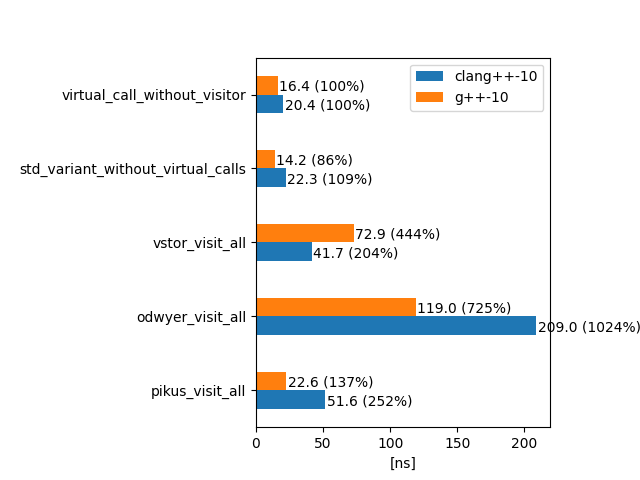
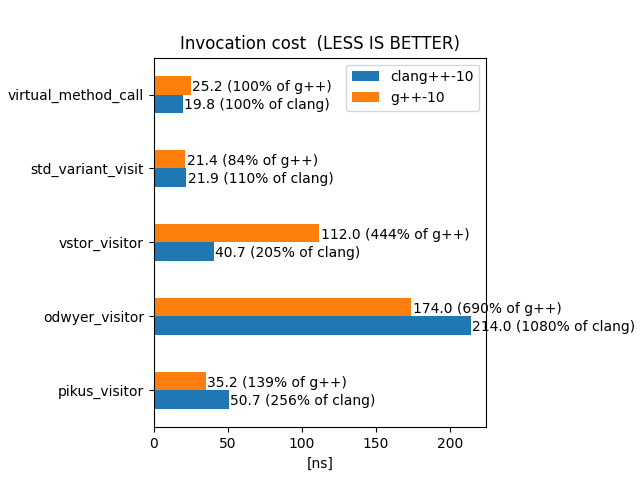
tidy naming

diff --git a/benchmark/generate_benchmark_graphs.py b/benchmark/generate_benchmark_graphs.py
@@ -17,7 +17,7 @@ def main() -> None:
         dump(test_results_clang, file)
     with open('/tmp/res_gcc', 'wb') as file:
         dump(test_results_gcc, file)
-
+    #
     # with open('/tmp/res_clang', 'rb') as file:
     #     test_results_clang = load(file)
     # with open('/tmp/res_gcc', 'rb') as file:
@@ -35,7 +35,7 @@ def benchmark_results(cc_compiler: str, cxx_compiler: str, suite_name: str) -> L
         f'-DCMAKE_CXX_COMPILER={cxx_compiler} -DCMAKE_EXPORT_COMPILE_COMMANDS=1 ../ && '
         'make vstor-benchmark'
         ')')
-    test_results_raw = execute('build/benchmark/vstor-benchmark --benchmark_repetitions=20')
+    test_results_raw = execute('build/benchmark/vstor-benchmark --benchmark_repetitions=200')
     test_results = [
         *filter(lambda line: '_median' in line and suite_name in line,
                 test_results_raw)]
@@ -50,8 +50,8 @@ def execute(command: str) -> List[str]:
 
 
 def show_graph(test_results_clang: List, test_results_gcc: List) -> None:
-    test_results_clang = [*reversed(test_results_clang)]
-    test_results_gcc = [*reversed(test_results_gcc)]
+    # test_results_clang = [*reversed(test_results_clang)]
+    # test_results_gcc = [*reversed(test_results_gcc)]
 
     test_names = [r[0].split('/')[1][0:-len('_median')] for r in test_results_clang]
     results_clang = [r[1] for r in test_results_clang]
@@ -69,12 +69,13 @@ def show_graph(test_results_clang: List, test_results_gcc: List) -> None:
             results_gcc_relative):
         fontsize = 10
         ax.text(y=index - 0.02 * fontsize, x=data_clang + 1,
-                s=f"{data_clang} ({int(data_clang_relative * 100)}%)",
+                s=f"{data_clang} ({int(data_clang_relative * 100)}% of clang)",
                 fontdict=dict(fontsize=fontsize))
         ax.text(y=index + 0.005 * fontsize, x=data_gcc + 1,
-                s=f"{data_gcc} ({int(data_gcc_relative * 100)}%)",
+                s=f"{data_gcc} ({int(data_gcc_relative * 100)}% of g++)",
                 fontdict=dict(fontsize=fontsize))
-    plt.subplots_adjust(left=0.4, right=0.86)
+    plt.subplots_adjust(left=0.24, right=0.76)
+    plt.title('Invocation cost  (LESS IS BETTER)')
     plt.savefig('benchmark/benchmark_chart.png')
     plt.show()
 

diff --git a/benchmark/benchmark.cpp b/benchmark/benchmark.cpp
@@ -166,7 +166,7 @@ BENCHMARK_F(One_single_call_from_the_hierarchy, pikus_visit)(benchmark::State& s
 
 class Calling_every_class_from_the_hierarchy : public benchmark::Fixture {
 };
-BENCHMARK_F(Calling_every_class_from_the_hierarchy, virtual_call_without_visitor)
+BENCHMARK_F(Calling_every_class_from_the_hierarchy, virtual_method_call)
 (benchmark::State& s)
 {
     using AllDerived = std::tuple<Derived1, Derived2, Derived3, Derived4, Derived5, Derived6,
@@ -184,7 +184,7 @@ BENCHMARK_F(Calling_every_class_from_the_hierarchy, virtual_call_without_visitor
         }
     }
 }
-BENCHMARK_F(Calling_every_class_from_the_hierarchy, std_variant_without_virtual_calls)
+BENCHMARK_F(Calling_every_class_from_the_hierarchy, std_variant_visit)
 (benchmark::State& s)
 {
     using AllDerived = std::tuple<Derived1, Derived2, Derived3, Derived4, Derived5, Derived6,
@@ -217,7 +217,7 @@ BENCHMARK_F(Calling_every_class_from_the_hierarchy, std_variant_without_virtual_
         }
     }
 }
-BENCHMARK_F(Calling_every_class_from_the_hierarchy, vstor_visit_all)(benchmark::State& s)
+BENCHMARK_F(Calling_every_class_from_the_hierarchy, vstor_visitor)(benchmark::State& s)
 {
     using AllDerived = std::tuple<Derived1, Derived2, Derived3, Derived4, Derived5, Derived6,
                                   Derived7, Derived8, Derived9, Derived10>;
@@ -249,7 +249,7 @@ BENCHMARK_F(Calling_every_class_from_the_hierarchy, vstor_visit_all)(benchmark::
         }
     }
 }
-BENCHMARK_F(Calling_every_class_from_the_hierarchy, odwyer_visit_all)(benchmark::State& s)
+BENCHMARK_F(Calling_every_class_from_the_hierarchy, odwyer_visitor)(benchmark::State& s)
 {
     using AllDerived = std::tuple<Derived1, Derived2, Derived3, Derived4, Derived5, Derived6,
                                   Derived7, Derived8, Derived9, Derived10>;
@@ -284,7 +284,7 @@ BENCHMARK_F(Calling_every_class_from_the_hierarchy, odwyer_visit_all)(benchmark:
         }
     }
 }
-BENCHMARK_F(Calling_every_class_from_the_hierarchy, pikus_visit_all)(benchmark::State& s)
+BENCHMARK_F(Calling_every_class_from_the_hierarchy, pikus_visitor)(benchmark::State& s)
 {
     using namespace pikus_alternative_hierarchy;
 

diff --git a/BENCHMARK.md b/BENCHMARK.md
@@ -38,22 +38,36 @@ Runtime overhead for the following implementations was tested:
 - gcc-10
 - clang-10
 
-###Scenario 1:
-A class hierarchy of 1 pure virtual base class and 10 derived classes is defined, 
-but only one derived class is constructed. We then use each
-of the calling strategies mentioned above to compute a value for that instance.
-
-The specific benchmark implementation depends on what api is required by the competing 
-implementation, so see [benchmark.cpp](path to) for details.
-
-###Scenario 2:
+###Scenario:
 A class hierarchy of 1 pure virtual base class and 10 derived classes is defined,
 and every derived class is pushed to a ```std::vector```. Next, the vector is shuffled.
 We then iterate over all the instances and use each of the calling strategies mentioned 
 above to compute a value for the given instance.
 
-The specific benchmark implementation depends on what api is required by the competing
+The following pseudo-c++ shows the scenario:
+```c++
+std::vector</*some variant, or a pointer to an abstract base class*/> objects{};
+shuffle(objects);
+for (auto _ : benchmark_state){
+    for (auto& visitable : objects){
+        /* visit the visitable with the tested strategy */
+    }
+}
+```
+
+The specific benchmark case implementation depends on what api is required by the competing
 implementation, so see [benchmark.cpp](path to) for details.
 
 ##Results:
- 
+
+A simple virtual call is taken as the benchmark base, separated for clang and gcc. The results are
+not meant to be precise, but rather present a general trend.
+
+The absolute numbers are not important. It's the relative performance that should be analyzed.
+
+![vstor_benchmark_results](benchmark/benchmark_chart.png)
+
+
+######clang results:
+```vstor``` internally uses a virtual dispach and a ```std::visit``` based visitation.
+
